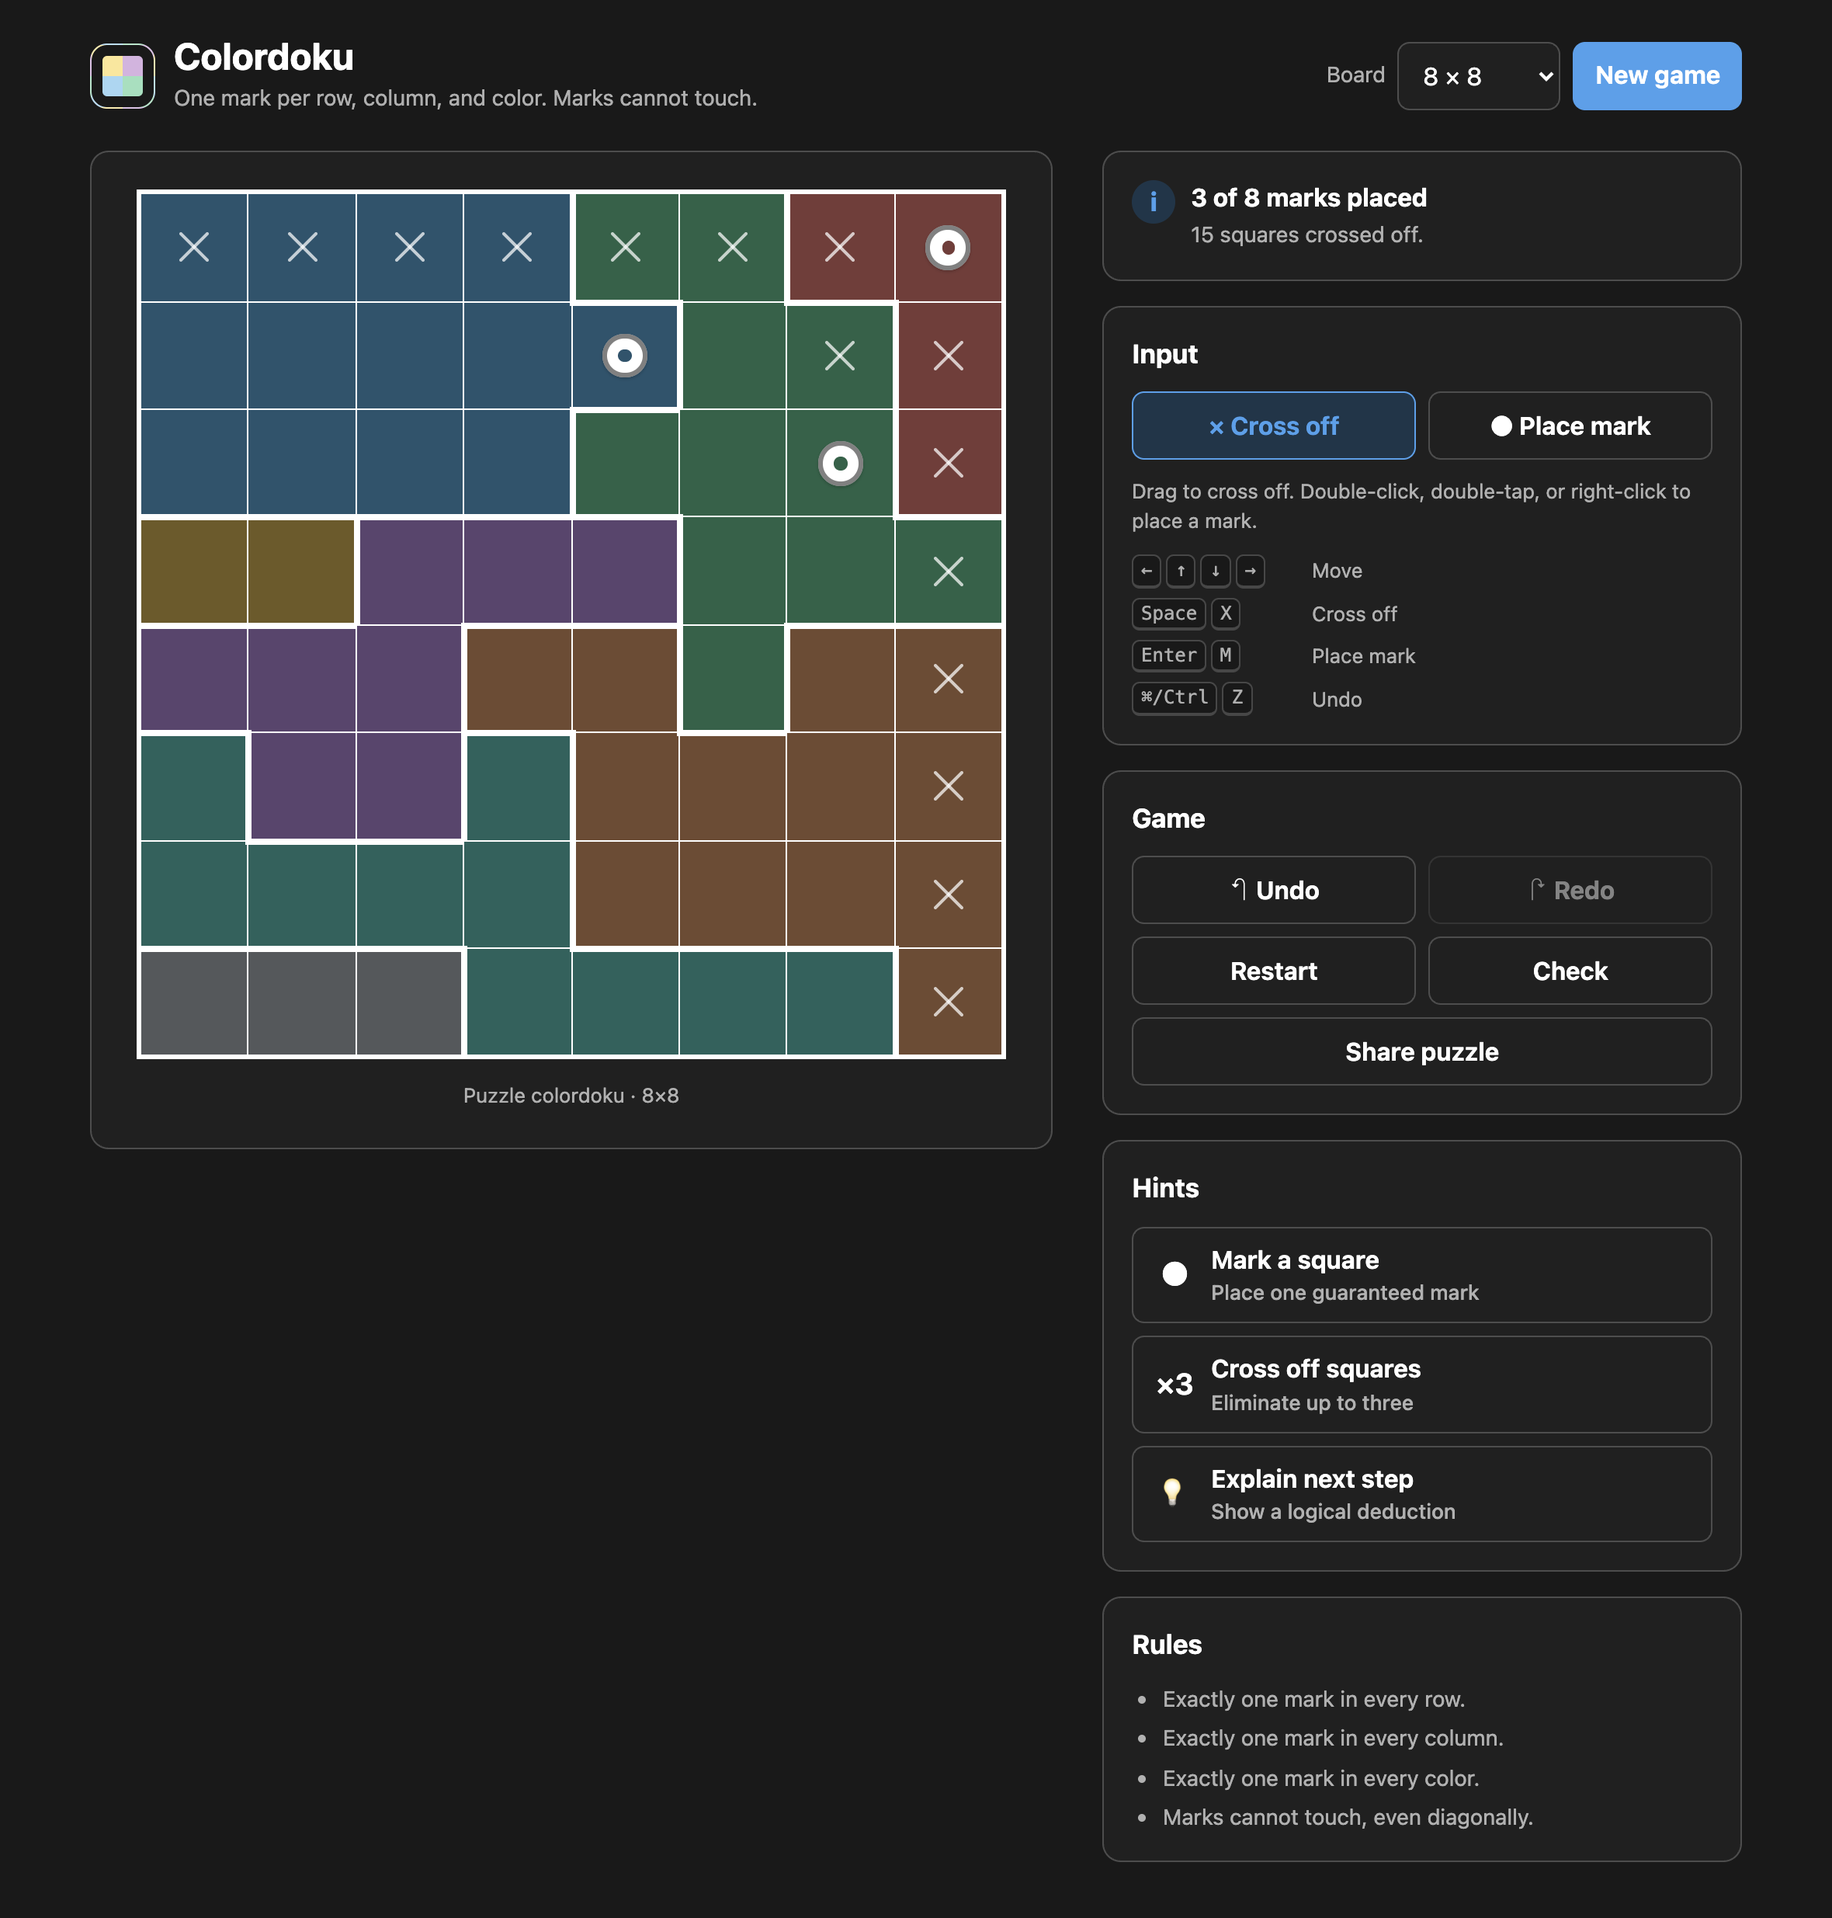
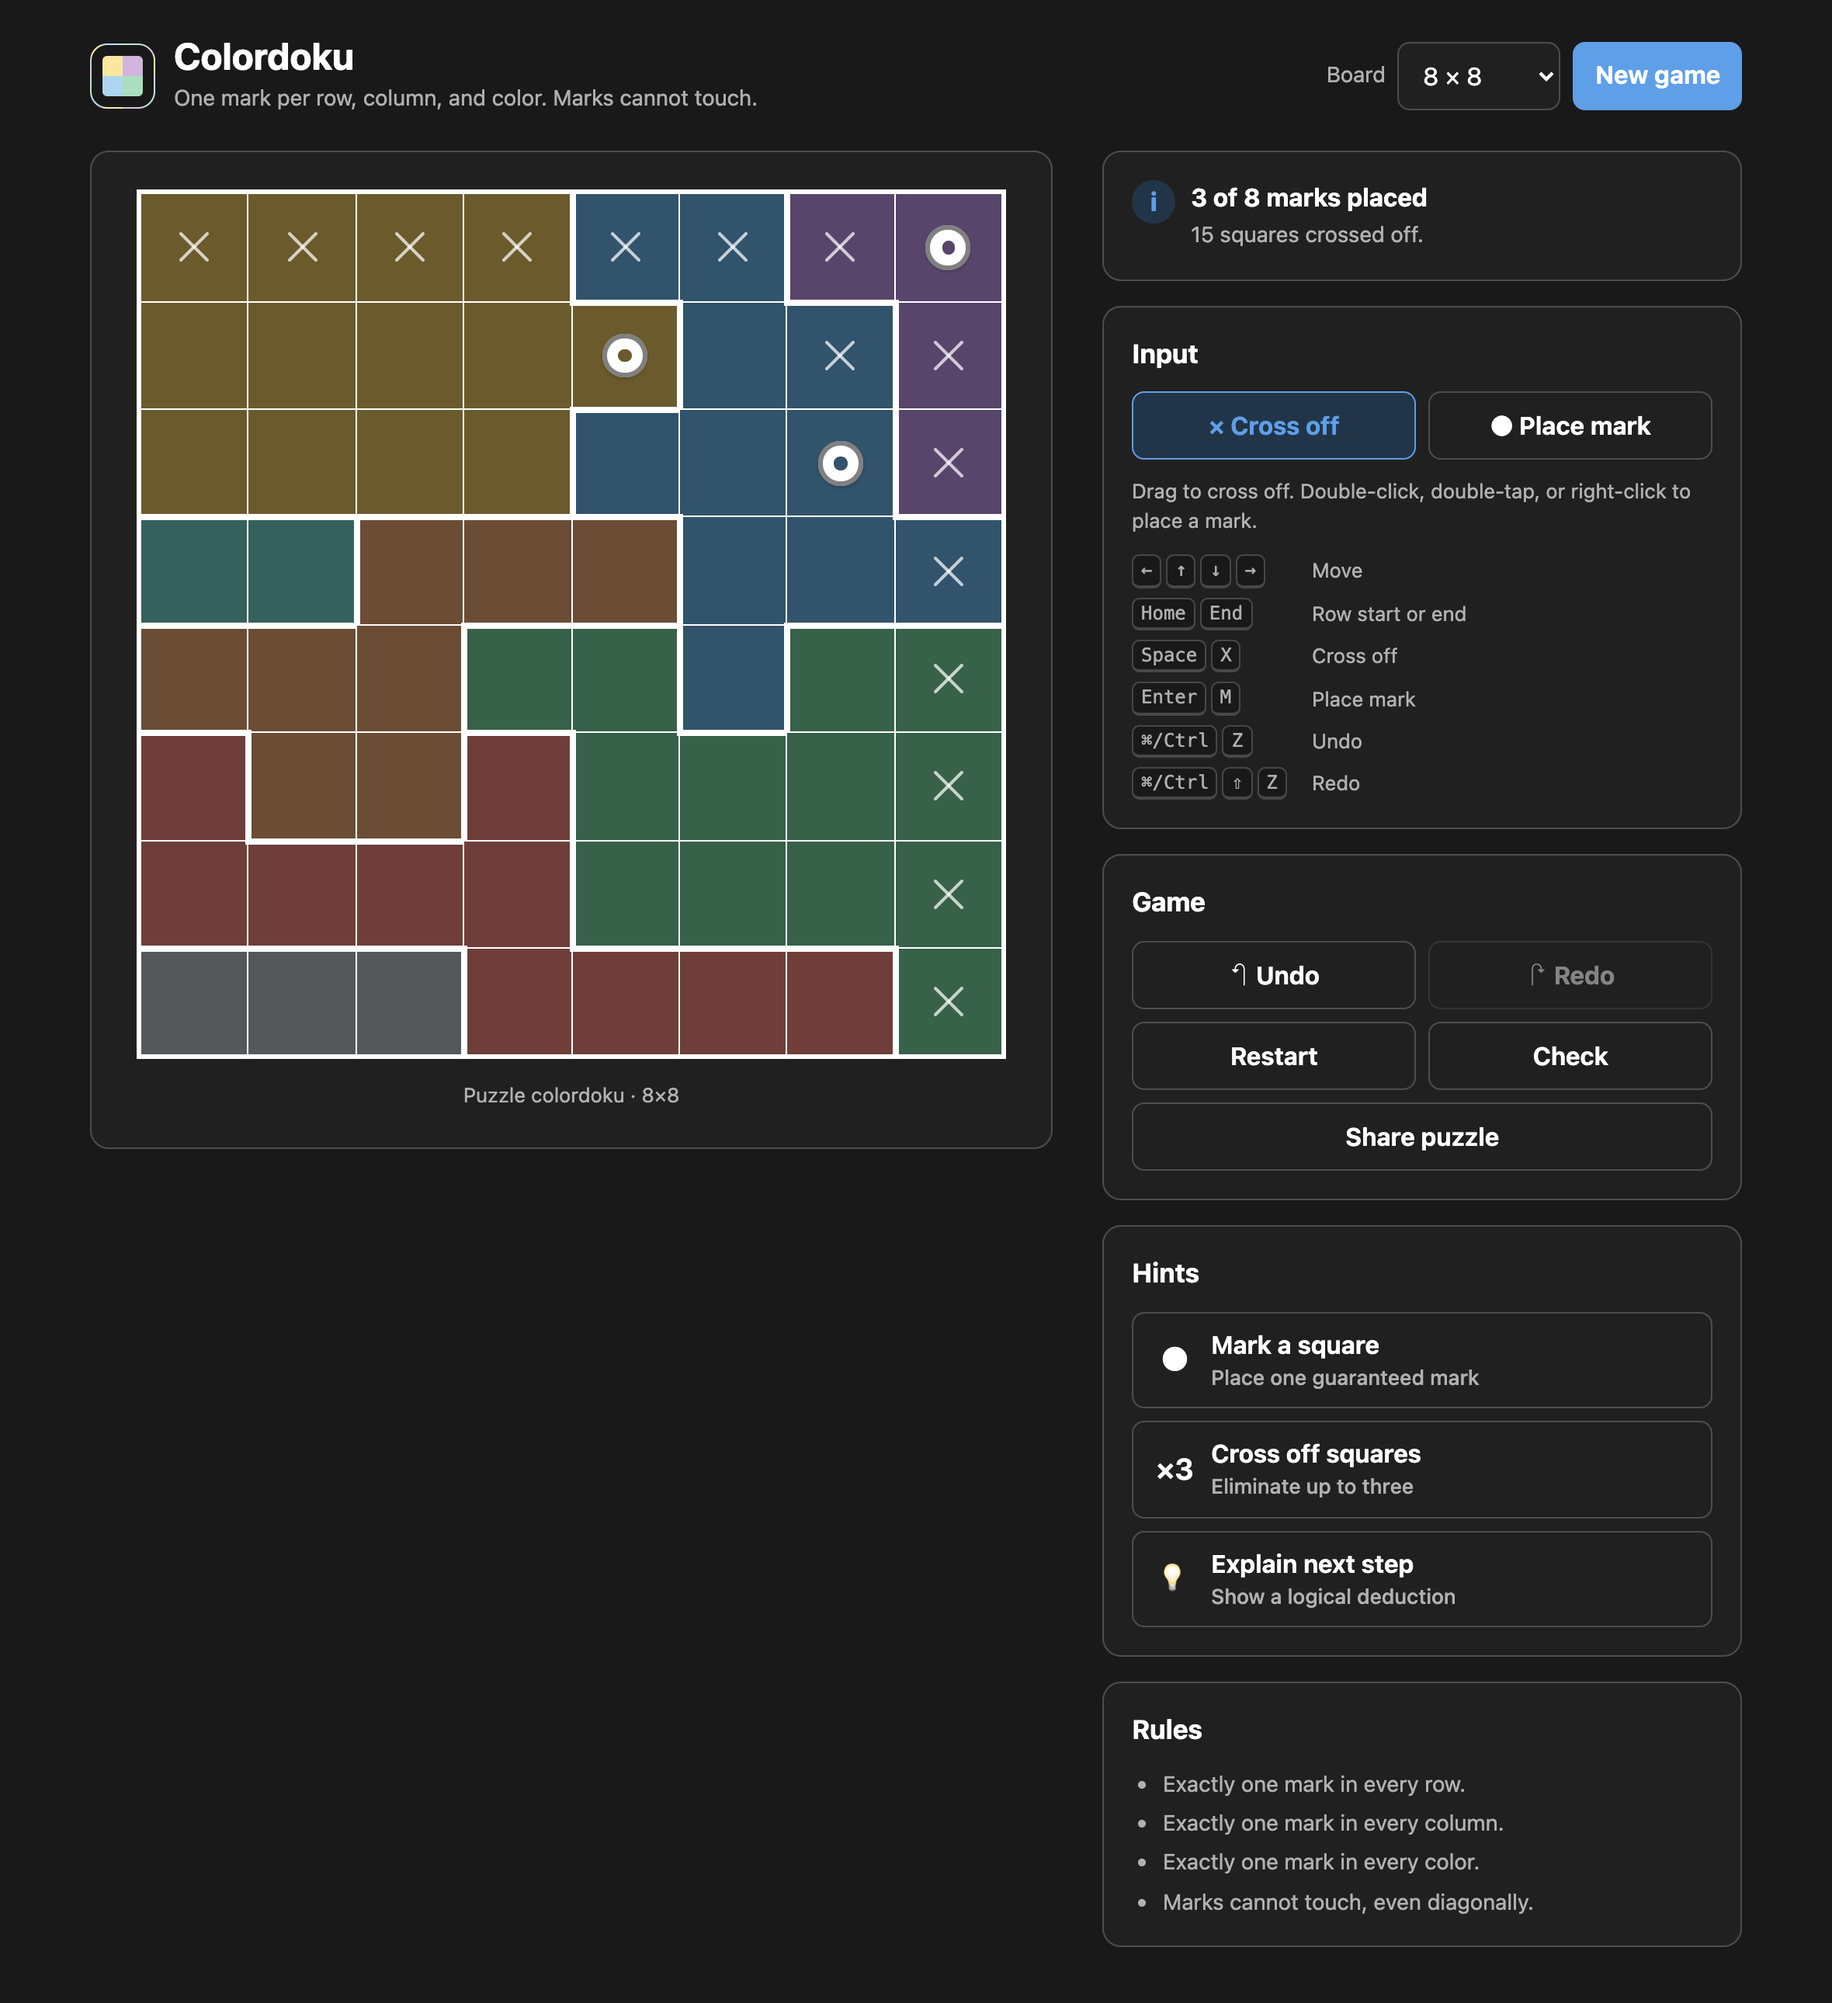
Fix review findings before publishing
Relabel regions randomly so a color no longer reveals which row holds
its mark, focus cells on press so Enter can't trigger the last-clicked
button, stop drag gap-filling after the pointer leaves the board, list
Redo and Home/End in the shortcuts card, give the deploy job
contents: read, and regenerate the images.

diff --git a/site/js/ui/board.js b/site/js/ui/board.js
@@ -33,7 +33,12 @@ export class Board {
   #cells = [];
   /** @type {Cell} */
   #focus = [0, 0];
-  /** @type {{ pointerId: number, key: string } | null} */
+  /**
+   * The press in progress and the last cell it reported, or `null` for that cell after the pointer
+   * left the board, so re-entering elsewhere doesn't fill in the cells between.
+   *
+   * @type {{ pointerId: number, key: string | null } | null}
+   */
   #press = null;
   /** @type {{ key: string, time: number } | null} */
   #lastTap = null;
@@ -128,6 +133,9 @@ export class Board {
     this.#lastTap = double ? null : { key, time: event.timeStamp };
     this.#press = { pointerId: event.pointerId, key };
     this.#setRoving(cell);
+    // preventDefault above also stops the browser from focusing the cell, so focus it here;
+    // otherwise Enter or Space would go to whatever button was clicked last.
+    cell.focus({ preventScroll: true, focusVisible: false });
     this.#handlers.onPressStart(cellOf(cell), double);
   }
 
@@ -135,12 +143,19 @@ export class Board {
   #onPointerMove(event) {
     const press = this.#press;
     if (!press || event.pointerId !== press.pointerId) return;
-    const cell = this.#cellAt(document.elementFromPoint(event.clientX, event.clientY));
+    const bounds = this.#element.getBoundingClientRect();
+    const { clientX: x, clientY: y } = event;
+    if (x < bounds.left || x > bounds.right || y < bounds.top || y > bounds.bottom) {
+      press.key = null;
+      return;
+    }
+    const cell = this.#cellAt(document.elementFromPoint(x, y));
     if (!cell || keyOf(cell) === press.key) return;
-    const from = parseKey(press.key);
+    const passed =
+      press.key === null ? [cellOf(cell)] : cellsBetween(parseKey(press.key), cellOf(cell));
     press.key = keyOf(cell);
     this.#lastTap = null;
-    for (const passed of cellsBetween(from, cellOf(cell))) this.#handlers.onPressMove(passed);
+    for (const next of passed) this.#handlers.onPressMove(next);
   }
 
   /** @param {PointerEvent} event */

diff --git a/site/index.html b/site/index.html
@@ -101,6 +101,10 @@
                 Move
               </li>
               <li>
+                <span class="keys"><span class="kbd">Home</span> <span class="kbd">End</span></span>
+                Row start or end
+              </li>
+              <li>
                 <span class="keys"><span class="kbd">Space</span> <span class="kbd">X</span></span>
                 Cross off
               </li>
@@ -111,6 +115,13 @@
               <li>
                 <span class="keys"><span class="kbd">⌘/Ctrl</span> <span class="kbd">Z</span></span>
                 Undo
+              </li>
+              <li>
+                <span class="keys"
+                  ><span class="kbd">⌘/Ctrl</span> <span class="kbd">⇧</span>
+                  <span class="kbd">Z</span></span
+                >
+                Redo
               </li>
             </ul>
           </section>

diff --git a/site/js/game/generator.js b/site/js/game/generator.js
@@ -116,7 +116,19 @@ export function generatePuzzle(size, seed) {
     const regions = solution && growRegions(size, solution, random);
     if (!regions) continue;
     const solutions = solve(regions, undefined, 2);
-    if (solutions.length === 1) return { size, seed, regions, solution: solutions[0] };
+    if (solutions.length !== 1) continue;
+    // growRegions numbers each region by its solution row, and the number picks the color, so
+    // relabel them randomly or every color would give away which row holds its mark.
+    const labels = shuffle(
+      Array.from({ length: size }, (_, region) => region),
+      random,
+    );
+    return {
+      size,
+      seed,
+      regions: regions.map((row) => row.map((region) => labels[region])),
+      solution: solutions[0],
+    };
   }
   return null;
 }

diff --git a/test/generator.test.js b/test/generator.test.js
@@ -83,3 +83,12 @@ test('generatePuzzle rebuilds the same puzzle from the same seed', () => {
   assert.deepEqual(generatePuzzle(8, 'repeat'), generatePuzzle(8, 'repeat'));
   assert.notDeepEqual(generatePuzzle(8, 'repeat')?.regions, generatePuzzle(8, 'repeaz')?.regions);
 });
+
+test('region colors do not reveal which row holds their mark', () => {
+  const revealing = SEEDS.filter((seed) => {
+    const puzzle = generatePuzzle(7, seed);
+    assert.ok(puzzle);
+    return puzzle.solution.every((column, row) => puzzle.regions[row][column] === row);
+  });
+  assert.deepEqual(revealing, []);
+});

diff --git a/README.md b/README.md
@@ -30,7 +30,7 @@
 
 ## How to play
 
-The board is split into colored regions, one for each row. Place marks so that:
+The board is split into as many colored regions as it has rows. Place marks so that:
 
 - every row has exactly one mark
 - every column has exactly one mark
